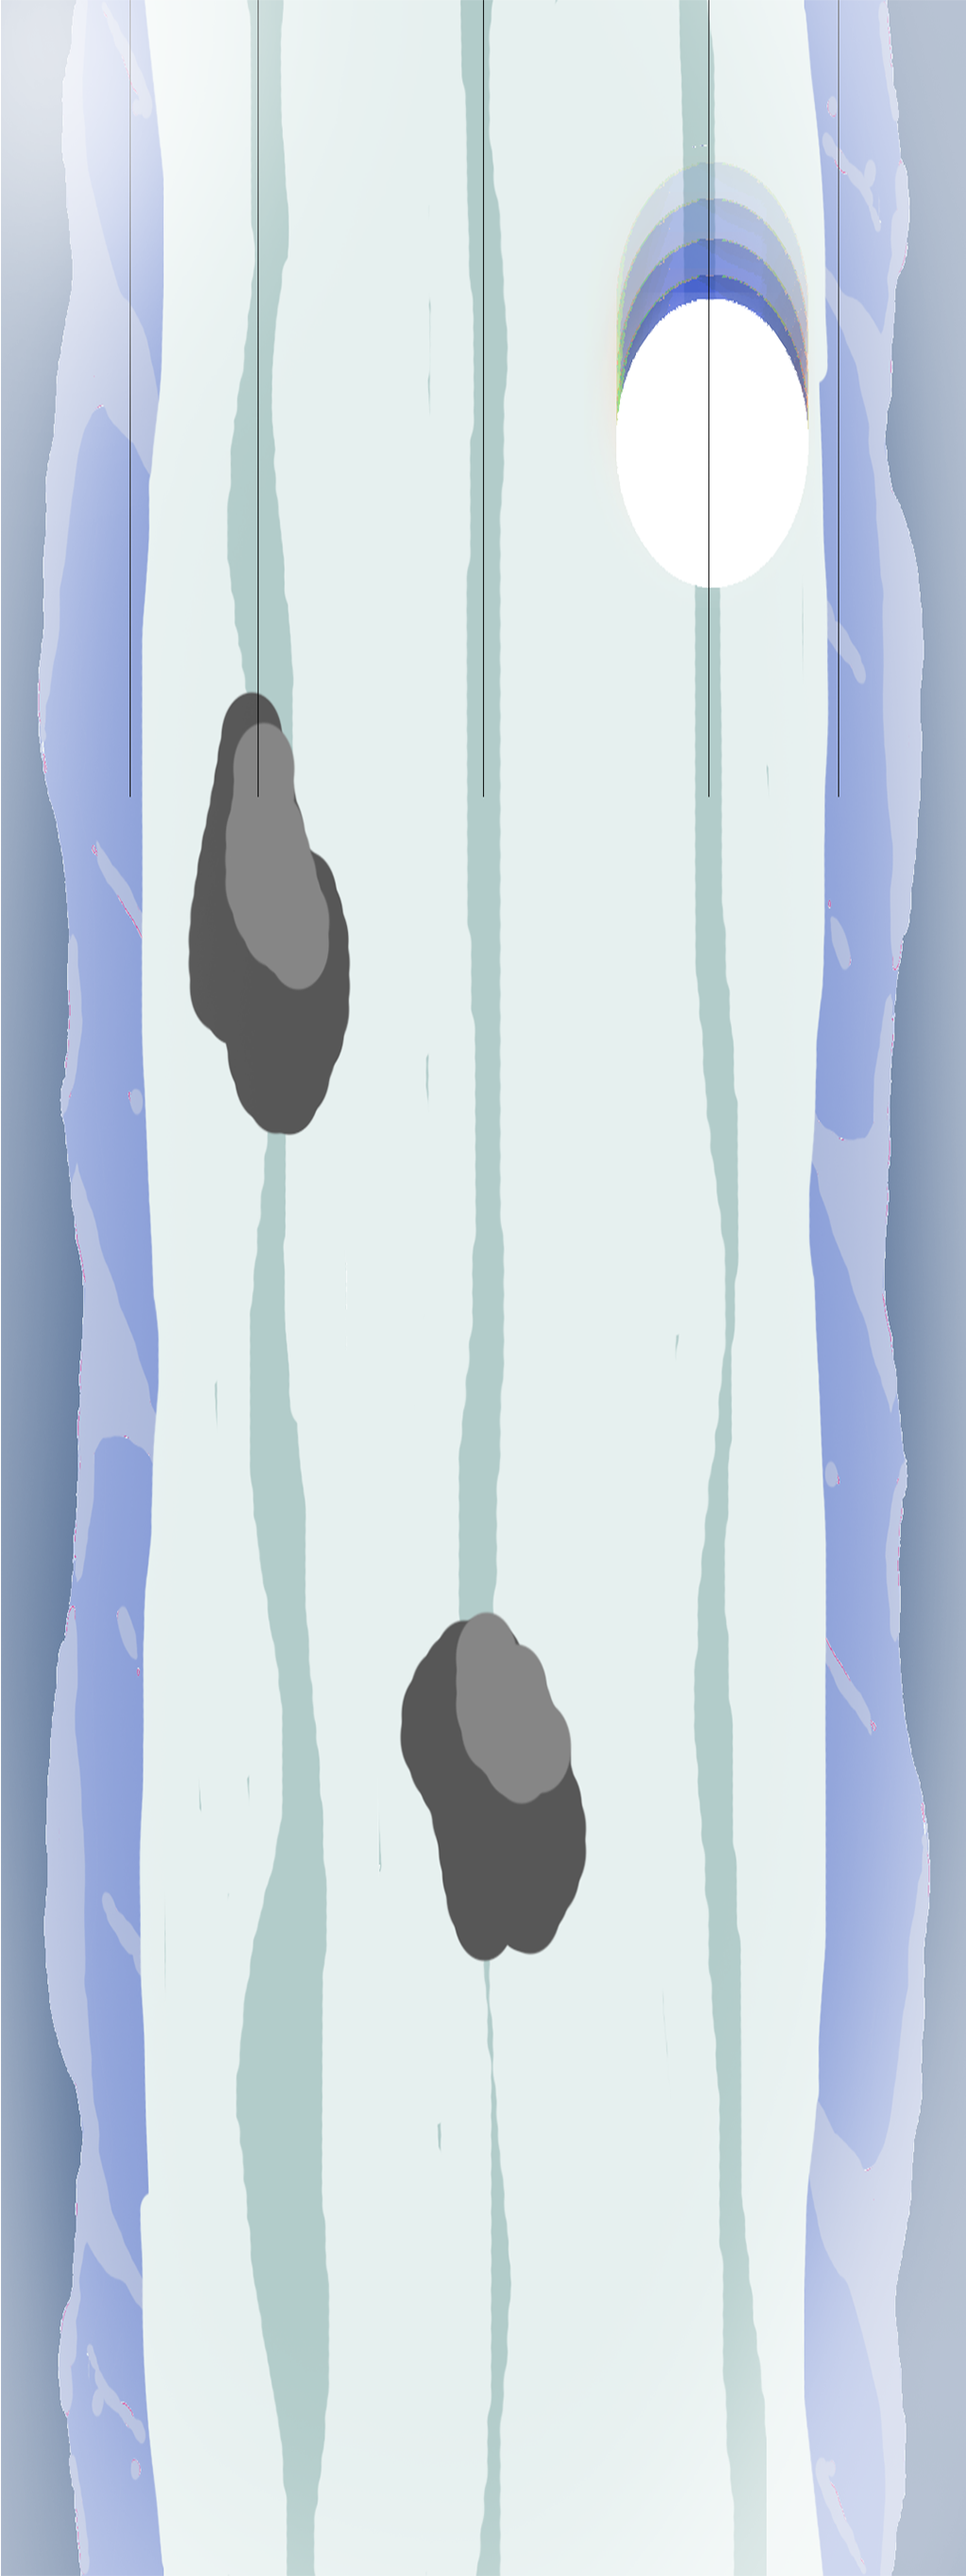
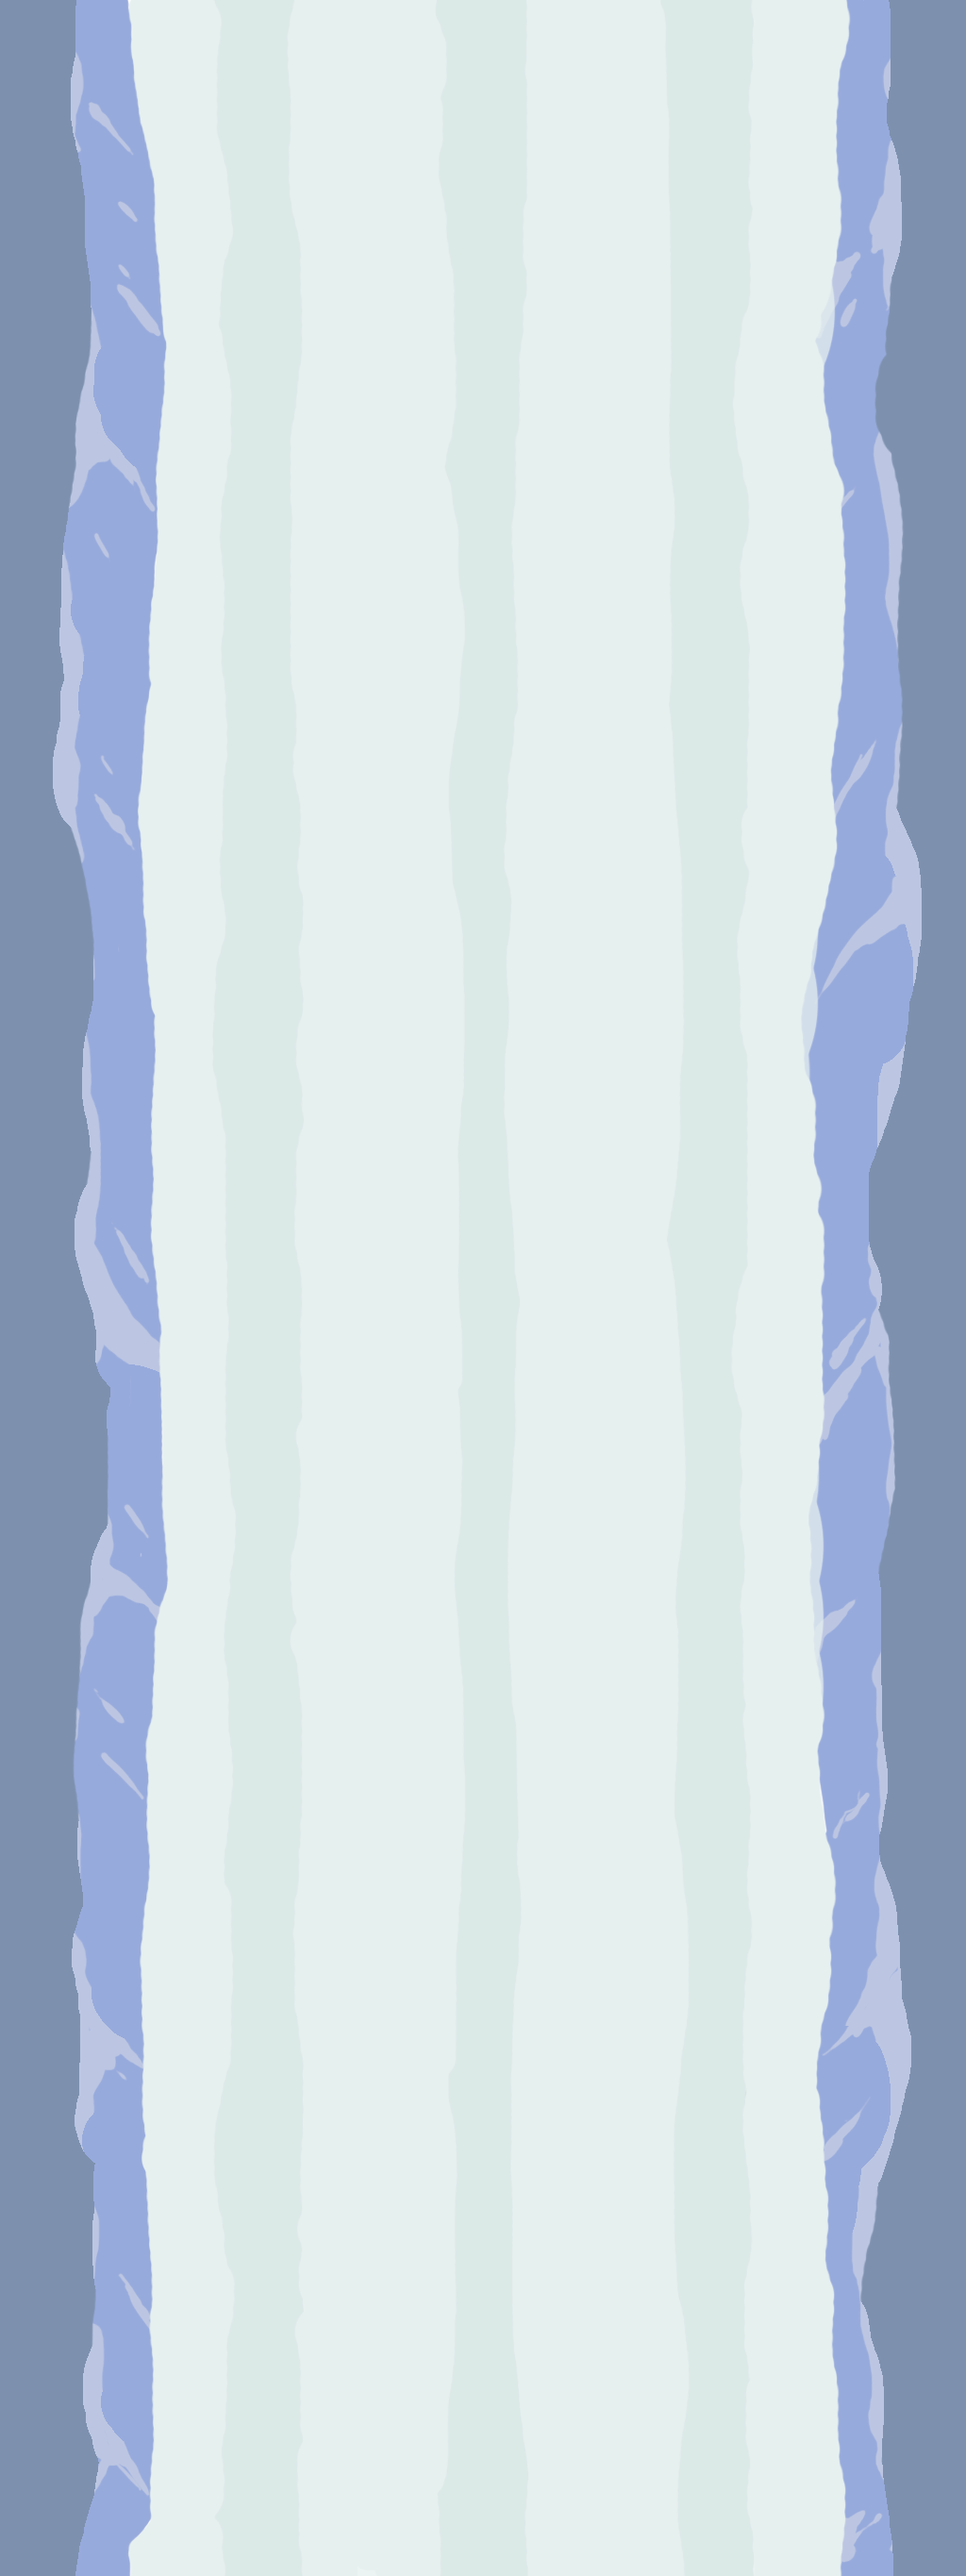
Changes

diff --git a/js/game.js b/js/game.js
@@ -1,6 +1,10 @@
 function preload() {}
 function create() {}
-function update() {}
+function update() 
+{
+    updateBall();
+    updateBack();
+}
 
 var factor = window.innerWidth / 270.0;
 
@@ -15,9 +19,21 @@ function loadScene() {
     game.load.image('back', 'img/back.png');
     game.load.onLoadComplete.add(function()
     {
-        gameObjects["back"] = game.add.sprite(0, 0, 'back');
+        gameObjects["back"] = game.add.sprite(0, -240, 'back');
         gameObjects["back"].height = 720 * factor;
         gameObjects["back"].width = 270 * factor;
+        loadProgress += 50;
+        FBInstant.setLoadingProgress(loadProgress);
+
+    }, this);
+    game.load.start();
+
+    game.load.image('ball', 'img/ball.png');
+    game.load.onLoadComplete.add(function()
+    {
+        gameObjects["ball"] = game.add.sprite((135 - 22) * factor, (440 - 22) * factor, 'ball');
+        gameObjects["ball"].height = 44 * factor;
+        gameObjects["ball"].width = 44 * factor;
         loadProgress += 50;
         FBInstant.setLoadingProgress(loadProgress);
 

diff --git a/js/ball.js b/js/ball.js
@@ -1,0 +1,30 @@
+var offset = 0;
+
+var speed = 3;
+
+var lane = 0;
+
+function updateBall()
+{
+    offset += speed;
+}
+
+function updateBallPosition()
+{
+    gameObjects["ball"].x = (135 - 22) * factor + lane * 60 * factor;
+}
+
+function changeLane(event)
+{
+    if(event.x > 135 * factor)
+    {
+        if(lane != 1) lane++;
+    }
+    else
+    {
+        if(lane != -1) lane--;
+    }
+    updateBallPosition();
+}
+
+window.addEventListener("click", changeLane);

diff --git a/index.html b/index.html
@@ -15,6 +15,8 @@
   <script src="js/mock/fbinstant.6.0.mock.js"></script>
   <!-- endbuild -->
   <script src="js/lib/phaser.js"></script>
+  <script src="js/ball.js"></script>
+  <script src="js/back.js"></script>
   <script src="js/game.js"></script>
   <script src="js/loading.js"></script>
   <script src="js/app.js"></script>

diff --git a/js/back.js b/js/back.js
@@ -1,0 +1,10 @@
+function updateBackLocation()
+{
+    if(!gameObjects["back"]) return;
+    gameObjects["back"].y = -240 + offset;
+}
+
+function updateBack()
+{
+    updateBackLocation();
+}

diff --git a/css/style.css b/css/style.css
@@ -1,4 +1,6 @@
 body {
     background-color: #fff;
     color:#fff;
+    margin: 0px;
+    padding: 0px;
 }
